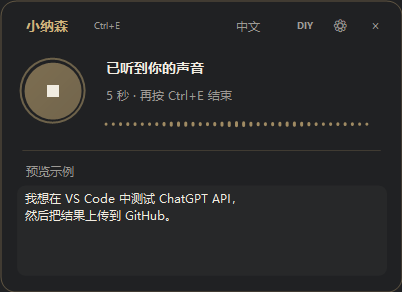
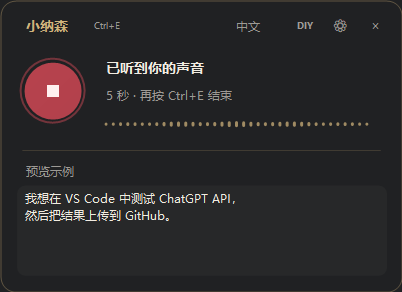
Show red recording button while listening

Changed region(s): [[0.0299, 0.1849, 0.209, 0.4315]]

diff --git a/src/SaymoreLite.cs b/src/SaymoreLite.cs
@@ -20,7 +20,7 @@ using System.Windows.Forms;
 [assembly:AssemblyTitle("小纳森")]
 [assembly:AssemblyProduct("小纳森")]
 [assembly:AssemblyDescription("小纳森 · 轻量语音输入")]
-[assembly:AssemblyVersion("1.2.2.0")]
+[assembly:AssemblyVersion("1.2.3.0")]
 namespace SaymoreLite {
 static class Program {
     public static readonly string Home = AppDomain.CurrentDomain.BaseDirectory;
@@ -465,11 +465,13 @@ class PillButton : Button {
     protected override void OnPaint(PaintEventArgs e){
         var g=e.Graphics;g.SmoothingMode=SmoothingMode.AntiAlias;g.Clear(Parent.BackColor);
         if(Microphone){
-            Color color=Drawing.Mix(Parent.BackColor,Accent,Listening?0.32f+Activity*0.23f:0.16f);
+            Color tint=Listening?Color.FromArgb(220,75,88):Accent;
+            Color color=Drawing.Mix(Parent.BackColor,tint,Listening?0.70f+Activity*0.12f:0.16f);
             if(hover)color=ControlPaint.Light(color,0.15f);
-            if(Listening)using(var halo=new Pen(Color.FromArgb(60+(int)(Activity*80),Accent),2))g.DrawEllipse(halo,2,2,Width-5,Height-5);
-            using(var brush=new LinearGradientBrush(new Rectangle(6,6,Width-12,Height-12),Drawing.Mix(color,Accent,0.12f),color,45f))g.FillEllipse(brush,6,6,Width-12,Height-12);
-            using(var pen=new Pen(ForeColor,2.2f))using(var brush=new SolidBrush(ForeColor)){
+            if(Listening)using(var halo=new Pen(Color.FromArgb(60+(int)(Activity*80),tint),2))g.DrawEllipse(halo,2,2,Width-5,Height-5);
+            using(var brush=new LinearGradientBrush(new Rectangle(6,6,Width-12,Height-12),Drawing.Mix(color,tint,0.12f),color,45f))g.FillEllipse(brush,6,6,Width-12,Height-12);
+            Color iconColor=Listening?Color.FromArgb(255,240,240):ForeColor;
+            using(var pen=new Pen(iconColor,2.2f))using(var brush=new SolidBrush(iconColor)){
                 float x=Width/2f,y=Height/2f;
                 if(Text=="■")g.FillRectangle(brush,x-6,y-6,12,12);
                 else if(Text=="×"){g.DrawLine(pen,x-6,y-6,x+6,y+6);g.DrawLine(pen,x+6,y-6,x-6,y+6);}
@@ -758,7 +760,7 @@ class DictationForm : Form {
                 warming=engine.Ready(operation.Token);liveCancel=CancellationTokenSource.CreateLinkedTokenSource(operation.Token);liveTask=LivePreview(audio,warming,transcript,session,liveCancel.Token);
             }catch(Exception ex){ReleaseLanguageKey();if(audio!=null){audio.Dispose();audio=null;}if(operation!=null){operation.Dispose();operation=null;}recording=false;UpdateMode();ScheduleCollapse();Program.Log(ex);SetState("无法开始录音",ex.Message);}return;
         }
-        recording=false;ReleaseLanguageKey();busy=true;UpdateMode();microphone.Text="×";microphone.AccessibleName="立即取消处理";microphone.Listening=false;wave.Listening=false;wave.Thinking=true;timer.Interval=80;IntPtr destination=target;
+        recording=false;ReleaseLanguageKey();busy=true;UpdateMode();microphone.Text="×";microphone.AccessibleName="立即取消处理";microphone.Listening=false;microphone.Invalidate();wave.Listening=false;wave.Thinking=true;timer.Interval=80;IntPtr destination=target;
         int version=session;var current=operation;var token=current.Token;var capture=audio;audio=null;var ready=warming;var cache=transcript;
         try{
             SetState("正在识别","Ctrl+E 或 × 立即取消");

diff --git a/docs/RELEASE_NOTES.md b/docs/RELEASE_NOTES.md
@@ -1,21 +1,13 @@
-## 小纳森 · Xiaonasen 1.2.2
+## 小纳森 · Xiaonasen 1.2.3
 
 ### 简体中文
 
-- 录音时增量识别并保存已完成段落，停止后只补尾段，不再整段重跑。
-- 静音尾部直接复用预览，新增语音替换未确认尾段，避免重复。
-- Ctrl+E、T 切换和立即取消保持不变。
+录音时按钮及外圈显示红色，图标保持清晰；结束录音或取消后，立即恢复原来的主题颜色。识别和快捷键行为保持不变。
 
-同一段约 61 秒本机合成语音，热模型停止后的转写等待从 1.84 秒降至 0.09 秒。该测试假设前面的段落已完成，不包含冷启动、翻译、AI 整理或粘贴；实际耗时因设备和输入而异。
-
-升级前退出旧版，保留 settings.json、terms.txt 和 runtime/。下载包不含大型模型，核对 SHA256SUMS.txt。
+升级前退出程序，保留 settings.json、terms.txt 和 runtime/。下载包不含大型模型，请核对 SHA256SUMS.txt。
 
 ### English
 
-- Recognize incrementally during recording; reuse completed segments and process only the remaining tail on stop.
-- Reuse previews followed by silence, and replace provisional tails after new speech without duplicating text.
-- Ctrl+E, recording-only T, and immediate cancellation are unchanged.
-
-The same approximately 61-second local synthetic recording measured 1.84 s versus 0.09 s of stop-to-result latency with a warm model and earlier segments already recognized. This excludes cold startup, translation, AI cleanup, and insertion; live performance depends on the device and input.
+The recording button and ring turn red while listening, with a high-contrast icon. Stopping or canceling immediately restores the theme colors. Recognition and shortcuts are unchanged.
 
 Exit before upgrading. Preserve settings.json, terms.txt, and runtime/. Large models are excluded. Verify SHA256SUMS.txt.

diff --git a/SECURITY.en.md b/SECURITY.en.md
@@ -6,4 +6,4 @@ Recognition, cleanup, and translation access the local loopback server. Resource
 
 Use **Security → Report a vulnerability** when available. Do not post secrets, private recordings, or sensitive exploit details in public issues. Use ordinary issues for non-security bugs.
 
-Version 1.2.2 is currently maintained. The project has not undergone an independent security audit and is not code-signed. Verify download sources and SHA-256, and keep system protections enabled.
+Version 1.2.3 is currently maintained. The project has not undergone an independent security audit and is not code-signed. Verify download sources and SHA-256, and keep system protections enabled.

diff --git a/SECURITY.md b/SECURITY.md
@@ -6,4 +6,4 @@
 
 报告安全问题时，请使用仓库 **Security → Report a vulnerability**（若已启用）。不要在公开 Issue 中提交密钥、个人录音或能够直接利用的私人信息。普通功能问题使用 Issue。
 
-目前维护版本 1.2.2。项目未经独立安全审计，也没有代码签名。下载和更新应核对来源及 SHA-256；保持系统防护开启。
+目前维护版本 1.2.3。项目未经独立安全审计，也没有代码签名。下载和更新应核对来源及 SHA-256；保持系统防护开启。

diff --git a/CHANGELOG.md b/CHANGELOG.md
@@ -1,5 +1,10 @@
 # 更新记录
 
+## 1.2.3
+
+- 正在录音时，麦克风按钮和外圈显示红色；结束或取消后恢复主题颜色。
+- The microphone button and ring turn red while recording and return to theme colors on stop or cancel.
+
 ## 1.2.2
 
 - 录音期间增量识别并保留已完成段落，停止后只补未识别的尾段。
